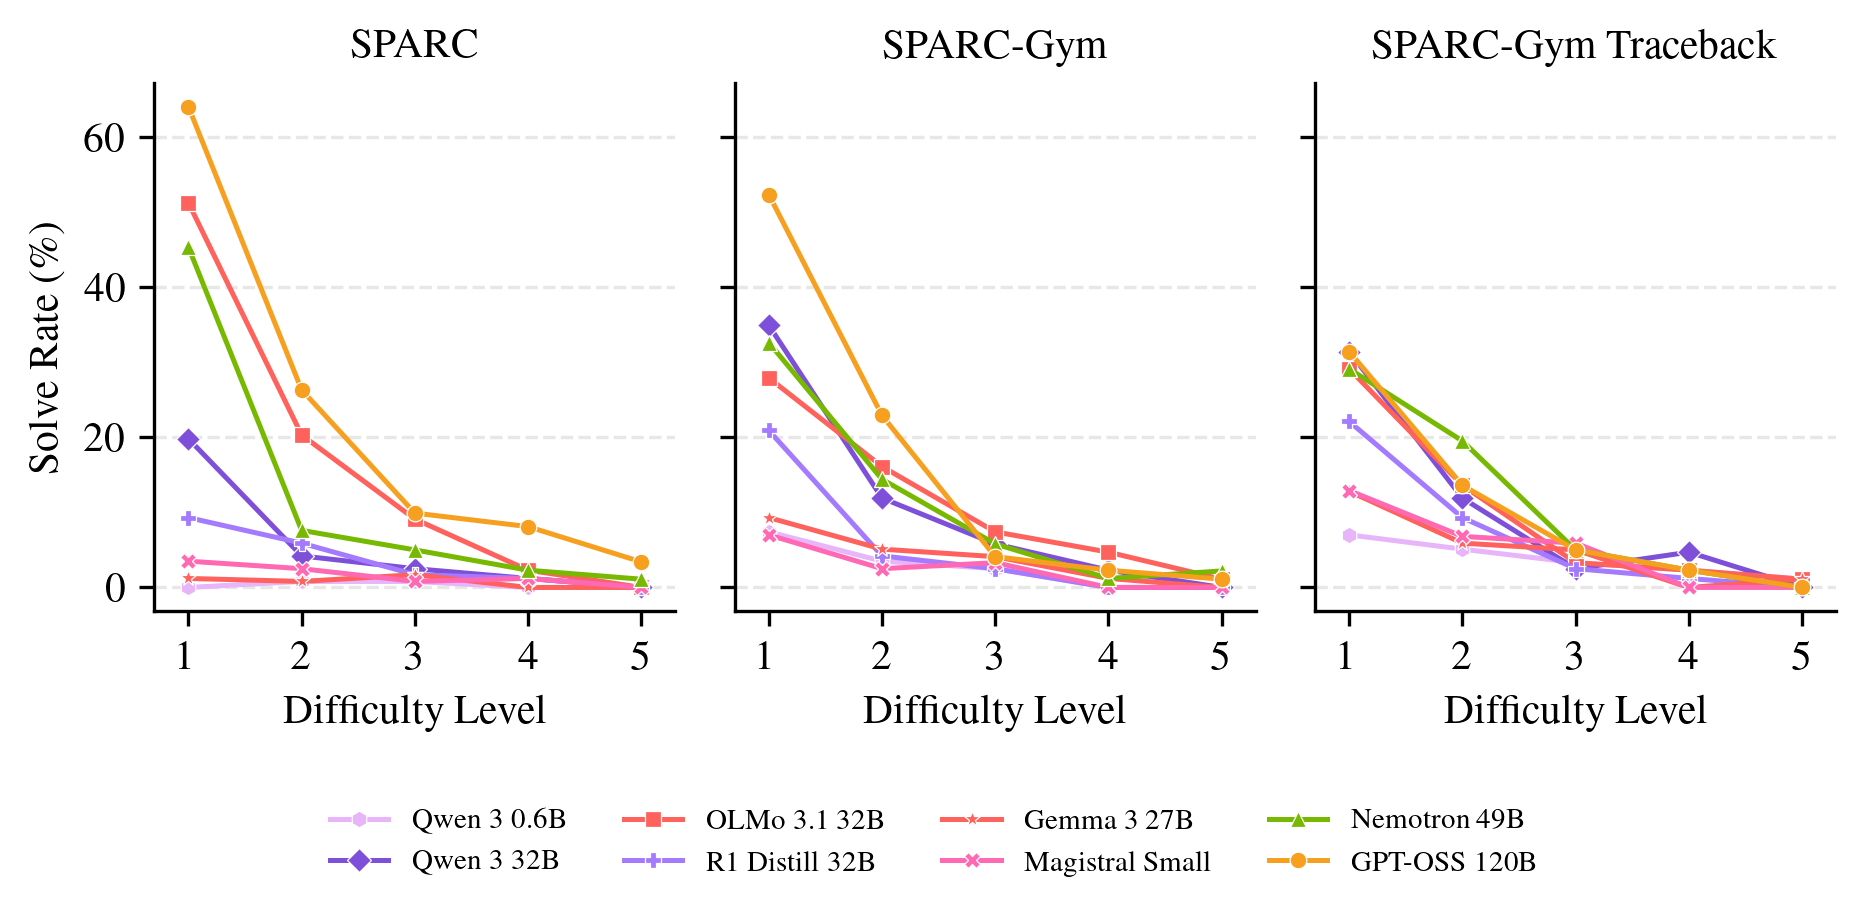
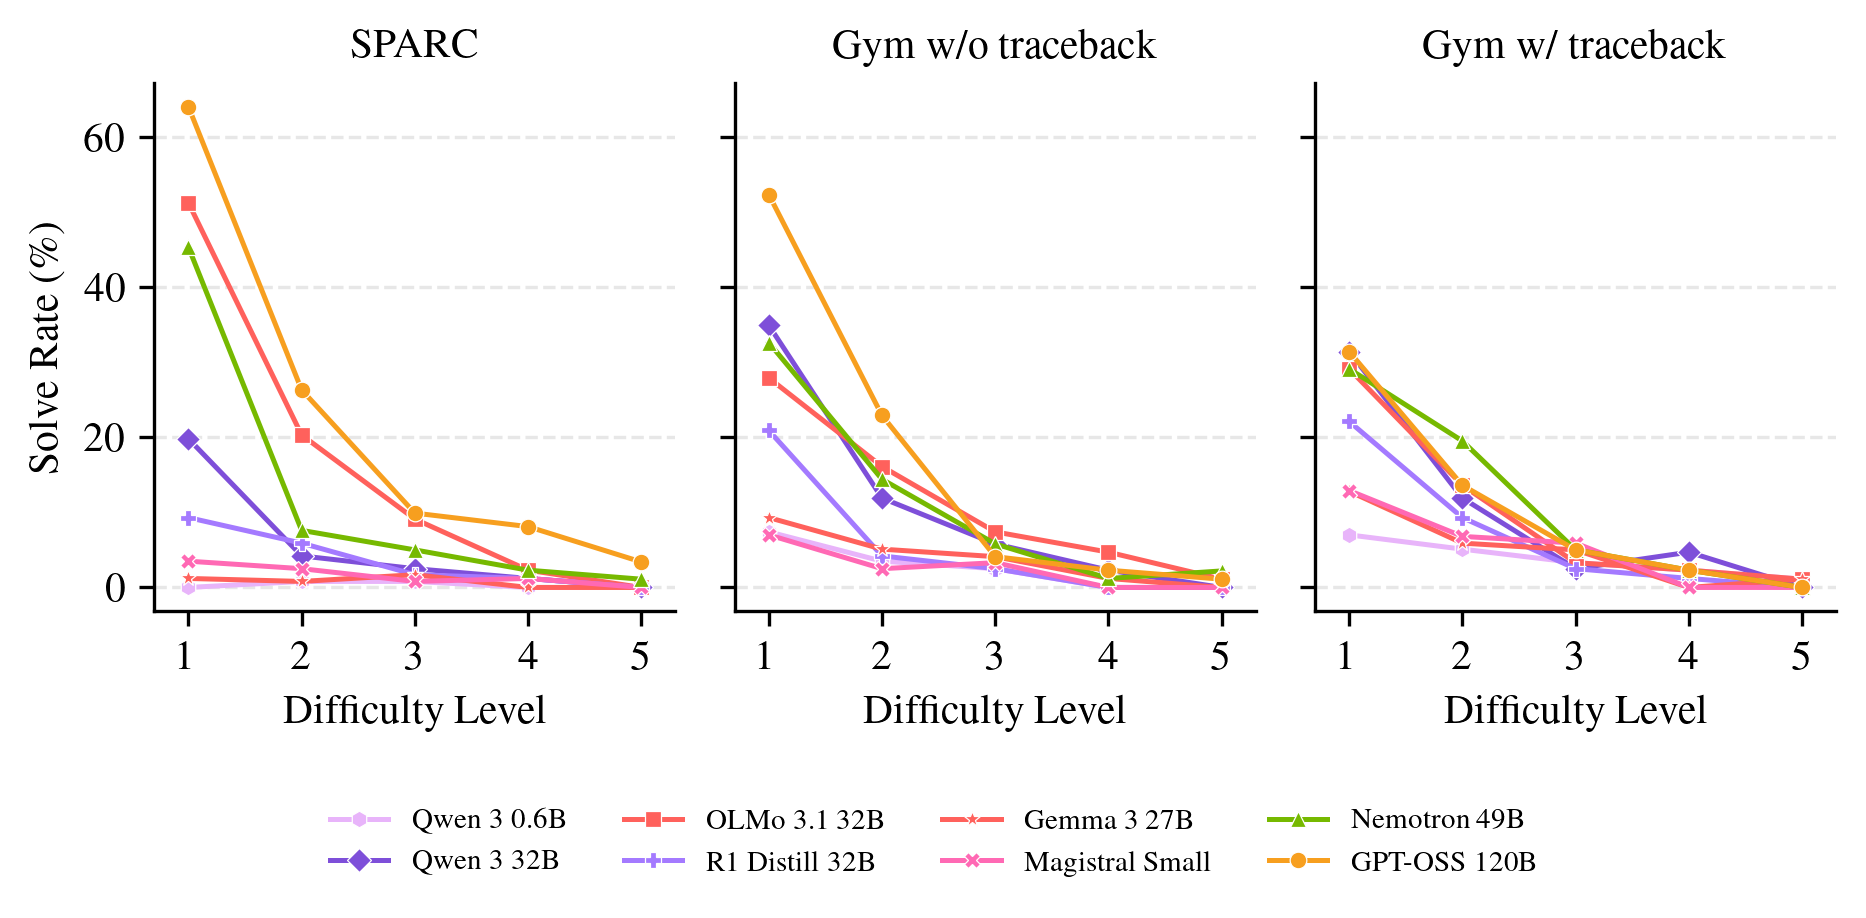
Update difficulty comparison visualizations and script categorization
- Updated PDF and PNG files for difficulty comparison to reflect new model naming conventions.
- Modified `plot_difficulty_comparison.py` to change subplot labels for clarity, categorizing models as "Gym w/o traceback" and "Gym w/ traceback".

Changed region(s): [[0.7149, 0.0305, 0.9636, 0.061], [0.4352, 0.0305, 0.6217, 0.061]]

diff --git a/plot_difficulty_comparison.py b/plot_difficulty_comparison.py
@@ -1,6 +1,6 @@
 """
 Script to create a 3-panel line plot showing accuracy by difficulty level
-for each model individually, with subplots for SPARC, SPARC-Gym, and SPARC-Gym Traceback.
+for each model individually, with subplots for SPARC, Gym w/o traceback, and Gym w/ traceback.
 """
 import matplotlib.pyplot as plt
 import pandas as pd
@@ -102,19 +102,19 @@ def extract_difficulty_accuracies(stats_file):
 
 def get_internal_name(filename, variant):
     """Extract internal model name from filename based on variant type."""
-    if variant == "SPARC-Gym Traceback":
+    if variant == "Gym w/ traceback":
         return filename.replace("_gym_traceback_stats.csv", "")
-    elif variant == "SPARC-Gym":
+    elif variant == "Gym w/o traceback":
         return filename.replace("_gym_stats.csv", "")
     else:
         return filename.replace("_stats.csv", "")
 
 
 def categorize_stats_files(results_dir):
-    """Categorize stats files into SPARC, SPARC-Gym, and SPARC-Gym Traceback."""
+    """Categorize stats files into SPARC, Gym w/o traceback, and Gym w/ traceback."""
     results_path = Path(results_dir)
 
-    categories = {"SPARC": [], "SPARC-Gym": [], "SPARC-Gym Traceback": []}
+    categories = {"SPARC": [], "Gym w/o traceback": [], "Gym w/ traceback": []}
 
     for stats_file in sorted(results_path.glob("*_stats.csv")):
         if "archive" in str(stats_file):
@@ -127,9 +127,9 @@ def categorize_stats_files(results_dir):
             continue
 
         if "_gym_traceback_stats.csv" in filename:
-            categories["SPARC-Gym Traceback"].append(stats_file)
+            categories["Gym w/ traceback"].append(stats_file)
         elif "_gym_stats.csv" in filename:
-            categories["SPARC-Gym"].append(stats_file)
+            categories["Gym w/o traceback"].append(stats_file)
         elif "_stats.csv" in filename and "_gym_" not in filename:
             categories["SPARC"].append(stats_file)
 
@@ -140,7 +140,7 @@ def create_difficulty_comparison_plot(categorized_files, output_path=None):
     """Create 3-panel line plot with individual model lines."""
     setup_plot_style(use_latex=True)
 
-    variant_names = ["SPARC", "SPARC-Gym", "SPARC-Gym Traceback"]
+    variant_names = ["SPARC", "Gym w/o traceback", "Gym w/ traceback"]
 
     fig, axes = plt.subplots(1, 3, figsize=(TEXT_WIDTH_INCHES, 3.0), sharey=True)
 
